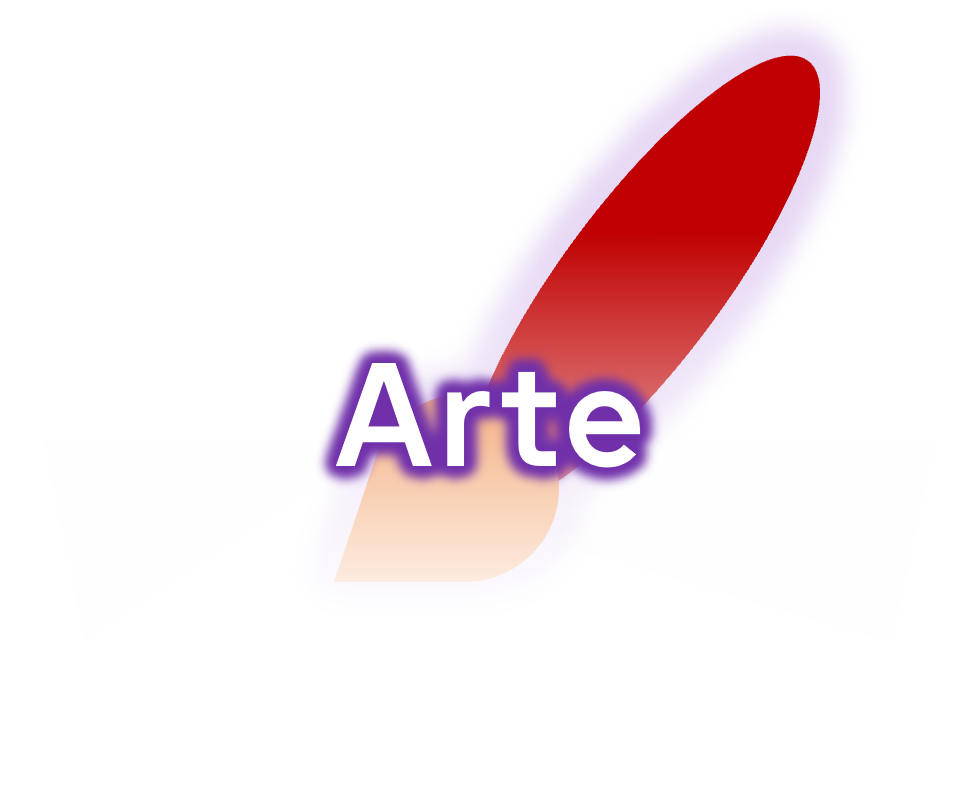
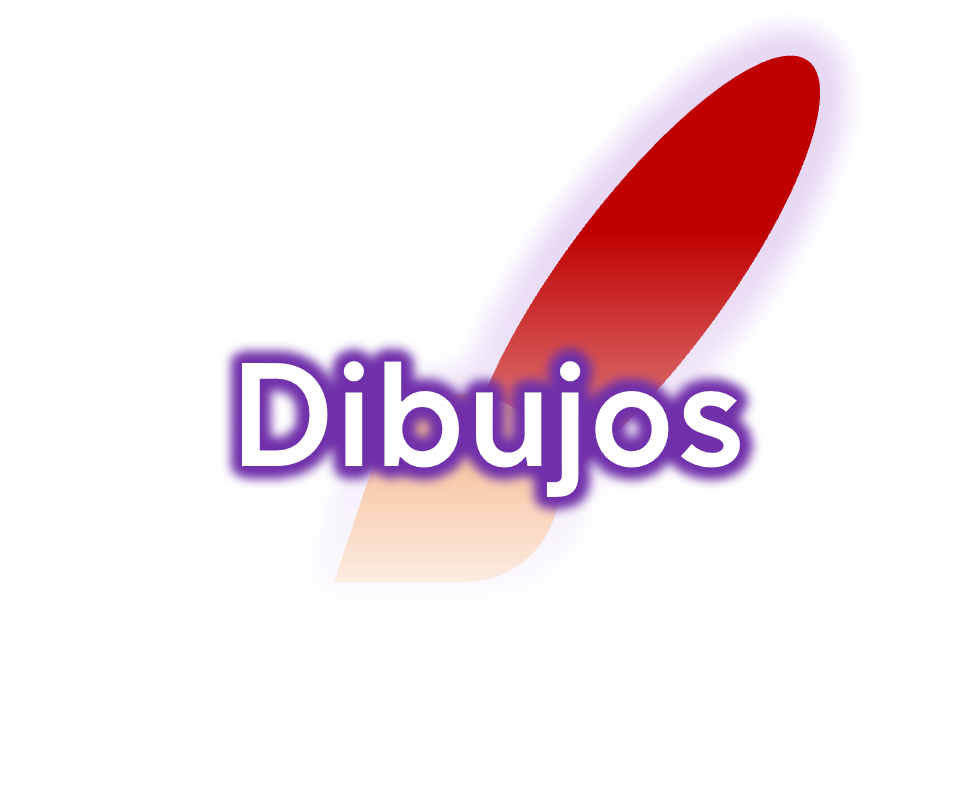
Add files via upload
Se añadieron muchas más cosas, la página ahora no está tan vacía.

Changed region(s): [[0.2143, 0.4017, 0.7959, 0.6489]]

diff --git a/Videos/index.html b/Videos/index.html
@@ -4,42 +4,35 @@
     <meta charset="UTF-8">
     <meta name="viewport" content="width=device-width, initial-scale=1.0">
     <link href="https://cdn.jsdelivr.net/npm/bootstrap@5.3.3/dist/css/bootstrap.min.css" rel="stylesheet" integrity="sha384-QWTKZyjpPEjISv5WaRU9OFeRpok6YctnYmDr5pNlyT2bRjXh0JMhjY6hW+ALEwIH" crossorigin="anonymous">
-    <title>FlexedPortal</title>
-    <link rel="stylesheet" type="text/css" href="flxportal.css">
-    <link rel="icon" type="image/x-icon" href="images/favicon.ico">
+    <title>Videos | FlexedPortal</title>
+    <link rel="stylesheet" type="text/css" href="../flxportal.css">
+    <link rel="stylesheet" type="text/css" href="../subpage.css">
+    <link rel="icon" type="image/x-icon" href="../images/favicon.ico">
 </head>
-<body>
+<body id="subpage">
     <div id="navbar">
         <a class="navitem" href="#blog">Blog</a>
-        <a href="index.html" class="titulo">FLEXED PORTAL</a>
+        <a href="../" class="titulo">FLEXED PORTAL</a>
         <a class="navitem" href="#*se_contacta*">Contacto</a>
     </div>
-    <div class="fondobox">
-        <img src="images/flexed.png" alt="flexed" class="flexed">
-        <table class="icon_table">
-          <tr>
-            <td><a href="Dibujos/"><img src="images/button_arte.png" width="300px" class="artimg"></a></td>
-            <td class="progico"><a href="Programas/"><img src="images/button_prog.png" width="300px" class="progimg"></a></td>
-          </tr>
-          <tr>
-            <td><a href="Videos/"><img src="images/button_video.png" width="300px" class="vidimg"></a></td>
-            <td class="pagico"><a href="Otros/"><img src="images/button_otro.png" width="300px" class="otrimg"></a></td>
-          </tr>
-        </table>
+    
+    <div class="boxsub">
+        <img class="imgsub" src="images/video.png" width="110px">
+        <h2 class="titulosub">Videos</h2>
     </div>
-    <div class="bigseparator"></div>
     <br>
     <br>
-    <div class="imagebox">
-        <div>
-            <h2 class="txt_titulo">No sé que colocar aquí, así que voy a dejar texto aleatorio de Word</h2>
-            <p class="txt">
-                El vídeo proporciona una manera eficaz para ayudarle a demostrar el punto. Cuando haga clic en Vídeo en línea, puede pegar el código para insertar del vídeo que desea agregar. También puede escribir una palabra clave para buscar en línea el vídeo que mejor se adapte a su documento.<br><br>
-                Para otorgar a su documento un aspecto profesional, Word proporciona encabezados, pies de página, páginas de portada y diseños de cuadro de texto que se complementan entre sí. Por ejemplo, puede agregar una portada coincidente, el encabezado y la barra lateral. Haga clic en Insertar y elija los elementos que desee de las distintas galerías.
-            </p>
+    <h2 class="titulosubR">Último video</h2>
+    <br>
+    <div class="yt">
+        <iframe width="560" height="315" src="https://www.youtube.com/embed/9jQtWi3L3TY?si=D-qhGUKQa1v1UhQL" title="YouTube video player" frameborder="0" allow="accelerometer; autoplay; clipboard-write; encrypted-media; gyroscope; picture-in-picture; web-share" referrerpolicy="strict-origin-when-cross-origin" allowfullscreen></iframe>
+        <div class="ytinfo">
+            <a href="https://www.youtube.com/@FlexedGnu" target="_blank"><img src="images/canal.png"></a>
+            <p><br>Visita mi canal, subo contenido para nada interesante.</p>
         </div>
-        <img src="images/super_chavez.png" alt="super_chavez" class="image" id="chavez">
+        </div>
     </div>
+    <br>
     <br>
     <footer class="bigfootseparator">
         <div>

diff --git a/Dibujos/index.html b/Dibujos/index.html
@@ -4,42 +4,37 @@
     <meta charset="UTF-8">
     <meta name="viewport" content="width=device-width, initial-scale=1.0">
     <link href="https://cdn.jsdelivr.net/npm/bootstrap@5.3.3/dist/css/bootstrap.min.css" rel="stylesheet" integrity="sha384-QWTKZyjpPEjISv5WaRU9OFeRpok6YctnYmDr5pNlyT2bRjXh0JMhjY6hW+ALEwIH" crossorigin="anonymous">
-    <title>FlexedPortal</title>
-    <link rel="stylesheet" type="text/css" href="flxportal.css">
-    <link rel="icon" type="image/x-icon" href="images/favicon.ico">
+    <title>Dibujos | FlexedPortal</title>
+    <link rel="stylesheet" type="text/css" href="../flxportal.css">
+    <link rel="stylesheet" type="text/css" href="../subpage.css">
+    <link rel="icon" type="image/x-icon" href="../images/favicon.ico">
 </head>
-<body>
+<body id="subpage">
     <div id="navbar">
         <a class="navitem" href="#blog">Blog</a>
-        <a href="index.html" class="titulo">FLEXED PORTAL</a>
+        <a href="../" class="titulo">FLEXED PORTAL</a>
         <a class="navitem" href="#*se_contacta*">Contacto</a>
     </div>
-    <div class="fondobox">
-        <img src="images/flexed.png" alt="flexed" class="flexed">
-        <table class="icon_table">
-          <tr>
-            <td><a href="Dibujos/"><img src="images/button_arte.png" width="300px" class="artimg"></a></td>
-            <td class="progico"><a href="Programas/"><img src="images/button_prog.png" width="300px" class="progimg"></a></td>
-          </tr>
-          <tr>
-            <td><a href="Videos/"><img src="images/button_video.png" width="300px" class="vidimg"></a></td>
-            <td class="pagico"><a href="Otros/"><img src="images/button_otro.png" width="300px" class="otrimg"></a></td>
-          </tr>
-        </table>
+    
+    <div class="boxsub">
+        <img class="imgsub" src="images/pincel.png" width="100px">
+        <h2 class="titulosub">Dibujos</h2>
     </div>
-    <div class="bigseparator"></div>
+
+    <h2 class="titulosub2">Los mejores en mi opinión</h2>
+
+    <table class="bestdibujos">
+        <tr>
+            <td>
+                <img src="images/dibujo1.png" width="557px">
+                <img src="images/dibujo2.png" width="300px">
+                <img src="images/dibujo3.png" width="557px">
+            </td>
+        </tr>
+    </table>
     <br>
     <br>
-    <div class="imagebox">
-        <div>
-            <h2 class="txt_titulo">No sé que colocar aquí, así que voy a dejar texto aleatorio de Word</h2>
-            <p class="txt">
-                El vídeo proporciona una manera eficaz para ayudarle a demostrar el punto. Cuando haga clic en Vídeo en línea, puede pegar el código para insertar del vídeo que desea agregar. También puede escribir una palabra clave para buscar en línea el vídeo que mejor se adapte a su documento.<br><br>
-                Para otorgar a su documento un aspecto profesional, Word proporciona encabezados, pies de página, páginas de portada y diseños de cuadro de texto que se complementan entre sí. Por ejemplo, puede agregar una portada coincidente, el encabezado y la barra lateral. Haga clic en Insertar y elija los elementos que desee de las distintas galerías.
-            </p>
-        </div>
-        <img src="images/super_chavez.png" alt="super_chavez" class="image" id="chavez">
-    </div>
+    <p class="tituloresub"><i>Sí, no sé dibujar nada más que Flexeds</i></p>
     <br>
     <footer class="bigfootseparator">
         <div>

diff --git a/Programas/index.html b/Programas/index.html
@@ -4,42 +4,33 @@
     <meta charset="UTF-8">
     <meta name="viewport" content="width=device-width, initial-scale=1.0">
     <link href="https://cdn.jsdelivr.net/npm/bootstrap@5.3.3/dist/css/bootstrap.min.css" rel="stylesheet" integrity="sha384-QWTKZyjpPEjISv5WaRU9OFeRpok6YctnYmDr5pNlyT2bRjXh0JMhjY6hW+ALEwIH" crossorigin="anonymous">
-    <title>FlexedPortal</title>
-    <link rel="stylesheet" type="text/css" href="flxportal.css">
-    <link rel="icon" type="image/x-icon" href="images/favicon.ico">
+    <title>Programas | FlexedPortal</title>
+    <link rel="stylesheet" type="text/css" href="../flxportal.css">
+    <link rel="stylesheet" type="text/css" href="../subpage.css">
+    <link rel="icon" type="image/x-icon" href="../images/favicon.ico">
 </head>
-<body>
+<body id="subpage">
     <div id="navbar">
         <a class="navitem" href="#blog">Blog</a>
-        <a href="index.html" class="titulo">FLEXED PORTAL</a>
+        <a href="../" class="titulo">FLEXED PORTAL</a>
         <a class="navitem" href="#*se_contacta*">Contacto</a>
     </div>
-    <div class="fondobox">
-        <img src="images/flexed.png" alt="flexed" class="flexed">
-        <table class="icon_table">
-          <tr>
-            <td><a href="Dibujos/"><img src="images/button_arte.png" width="300px" class="artimg"></a></td>
-            <td class="progico"><a href="Programas/"><img src="images/button_prog.png" width="300px" class="progimg"></a></td>
-          </tr>
-          <tr>
-            <td><a href="Videos/"><img src="images/button_video.png" width="300px" class="vidimg"></a></td>
-            <td class="pagico"><a href="Otros/"><img src="images/button_otro.png" width="300px" class="otrimg"></a></td>
-          </tr>
-        </table>
+    
+    <div class="boxsub">
+        <img class="imgsub" src="images/cmd.png" width="130px">
+        <h2 class="titulosub">Programas</h2>
     </div>
-    <div class="bigseparator"></div>
     <br>
     <br>
-    <div class="imagebox">
+    <div class="infoGGEN_R">
+        <a href="https://github.com/FlexedGnu/demo-batalla-por-turnos" target="_blank"><img src="images/demobatalla.png"></a>
         <div>
-            <h2 class="txt_titulo">No sé que colocar aquí, así que voy a dejar texto aleatorio de Word</h2>
-            <p class="txt">
-                El vídeo proporciona una manera eficaz para ayudarle a demostrar el punto. Cuando haga clic en Vídeo en línea, puede pegar el código para insertar del vídeo que desea agregar. También puede escribir una palabra clave para buscar en línea el vídeo que mejor se adapte a su documento.<br><br>
-                Para otorgar a su documento un aspecto profesional, Word proporciona encabezados, pies de página, páginas de portada y diseños de cuadro de texto que se complementan entre sí. Por ejemplo, puede agregar una portada coincidente, el encabezado y la barra lateral. Haga clic en Insertar y elija los elementos que desee de las distintas galerías.
-            </p>
+        <a href="https://github.com/FlexedGnu/demo-batalla-por-turnos " target="_blank"><h1><u>Demo batalla por turnos</u></h1></a>
+        <p>Pequeña demostración de una batalla por turnos basada en texto.<br>Hecho con Python.
+        </p>
         </div>
-        <img src="images/super_chavez.png" alt="super_chavez" class="image" id="chavez">
     </div>
+    <br>
     <br>
     <footer class="bigfootseparator">
         <div>

diff --git a/Otros/index.html b/Otros/index.html
@@ -4,42 +4,30 @@
     <meta charset="UTF-8">
     <meta name="viewport" content="width=device-width, initial-scale=1.0">
     <link href="https://cdn.jsdelivr.net/npm/bootstrap@5.3.3/dist/css/bootstrap.min.css" rel="stylesheet" integrity="sha384-QWTKZyjpPEjISv5WaRU9OFeRpok6YctnYmDr5pNlyT2bRjXh0JMhjY6hW+ALEwIH" crossorigin="anonymous">
-    <title>FlexedPortal</title>
-    <link rel="stylesheet" type="text/css" href="flxportal.css">
-    <link rel="icon" type="image/x-icon" href="images/favicon.ico">
+    <title>Otros proyectos | FlexedPortal</title>
+    <link rel="stylesheet" type="text/css" href="../flxportal.css">
+    <link rel="stylesheet" type="text/css" href="../subpage.css">
+    <link rel="icon" type="image/x-icon" href="../images/favicon.ico">
 </head>
-<body>
+<body id="subpage">
     <div id="navbar">
         <a class="navitem" href="#blog">Blog</a>
-        <a href="index.html" class="titulo">FLEXED PORTAL</a>
+        <a href="../" class="titulo">FLEXED PORTAL</a>
         <a class="navitem" href="#*se_contacta*">Contacto</a>
     </div>
-    <div class="fondobox">
-        <img src="images/flexed.png" alt="flexed" class="flexed">
-        <table class="icon_table">
-          <tr>
-            <td><a href="Dibujos/"><img src="images/button_arte.png" width="300px" class="artimg"></a></td>
-            <td class="progico"><a href="Programas/"><img src="images/button_prog.png" width="300px" class="progimg"></a></td>
-          </tr>
-          <tr>
-            <td><a href="Videos/"><img src="images/button_video.png" width="300px" class="vidimg"></a></td>
-            <td class="pagico"><a href="Otros/"><img src="images/button_otro.png" width="300px" class="otrimg"></a></td>
-          </tr>
-        </table>
+    
+    <div class="boxsub">
+        <img class="imgsub" src="images/page.png" width="90px">
+        <h2 class="titulosub">Otros proyectos</h2>
     </div>
-    <div class="bigseparator"></div>
     <br>
     <br>
-    <div class="imagebox">
-        <div>
-            <h2 class="txt_titulo">No sé que colocar aquí, así que voy a dejar texto aleatorio de Word</h2>
-            <p class="txt">
-                El vídeo proporciona una manera eficaz para ayudarle a demostrar el punto. Cuando haga clic en Vídeo en línea, puede pegar el código para insertar del vídeo que desea agregar. También puede escribir una palabra clave para buscar en línea el vídeo que mejor se adapte a su documento.<br><br>
-                Para otorgar a su documento un aspecto profesional, Word proporciona encabezados, pies de página, páginas de portada y diseños de cuadro de texto que se complementan entre sí. Por ejemplo, puede agregar una portada coincidente, el encabezado y la barra lateral. Haga clic en Insertar y elija los elementos que desee de las distintas galerías.
-            </p>
-        </div>
-        <img src="images/super_chavez.png" alt="super_chavez" class="image" id="chavez">
+    <div class="infoGGEN_R">
+        <a href="https://www.youtube.com/watch?v=xvFZjo5PgG0" target="_blank"><img src="images/phsm.png" width="600px"></a>
     </div>
+    <br>
+    <h2 class="titulosubR">Trailer Oficial de PHSM (2024)</h2>
+    <br>
     <br>
     <footer class="bigfootseparator">
         <div>

diff --git a/subpage.css b/subpage.css
@@ -1,0 +1,89 @@
+#subpage{
+    background: url("images/fondo_flexed.png");
+    background-size: cover;
+    background-repeat: no-repeat;
+}
+
+.titulosubR{
+    color: #fff;
+    margin-left: 130px;
+}
+
+.boxsub{
+    margin-top: 110px;
+    background: linear-gradient(90deg, #7030AA 0%, #1f083e00 100%);
+    margin-right: 60%;
+    height: 60px;
+    position: relative;
+    display: flex;
+    overflow: visible;
+}
+
+.boxsub img{
+    margin-left: 60px;
+    position: absolute;
+    top: 50%;
+    -ms-transform: translateY(-50%);
+    transform: translateY(-50%);
+}
+
+.titulosub{
+    margin-left: 200px;
+    background: -webkit-linear-gradient(#7030AA 0%, #FFB5B5 100%);
+    background-clip: text;
+    -webkit-text-fill-color: transparent;
+    font-size: 38px;
+    top: 50%;
+    -ms-transform: translateY(-50%);
+    transform: translateY(-50%);
+    position: absolute;
+}
+
+.titulosub2{
+    padding-top: 30px;
+    padding-bottom: 30px;
+    color: #fff;
+    text-align: center;
+}
+
+.bestdibujos{
+    margin-left: auto;
+    margin-right: auto;
+}
+
+.tituloresub{
+    color: #c29ce48a;
+    font-size: 24px;
+    text-align: center;
+}
+
+.infoGGEN_R{
+    margin-left: 90px;
+    display: flex;
+}
+
+.infoGGEN_R h1{
+    color: #fff;
+    padding-left: 50px;
+}
+
+.infoGGEN_R p{
+    color: #fff;
+    padding-left: 50px;
+    font-size: 30px;
+    padding-right: 90px;
+}
+
+.yt{
+    display: flex;
+    margin-left: 120px;
+}
+
+.ytinfo{
+    color: #fff;
+    font-size: 28px;
+    text-align: center;
+    padding-left: 100px;
+    padding-right: 100px;
+}
+

diff --git a/flxportal.css b/flxportal.css
@@ -27,6 +27,8 @@ body{
     align-items: center;
     display: flex;
     padding: 0.1% 10%;
+    top: 0;
+    z-index: 10000;
 }
 
 #navbar a{
@@ -208,3 +210,7 @@ svg{
     content: url("images/hover_otros.png");
     width: 300px;
 }
+
+a {
+    text-decoration: none;
+  }
